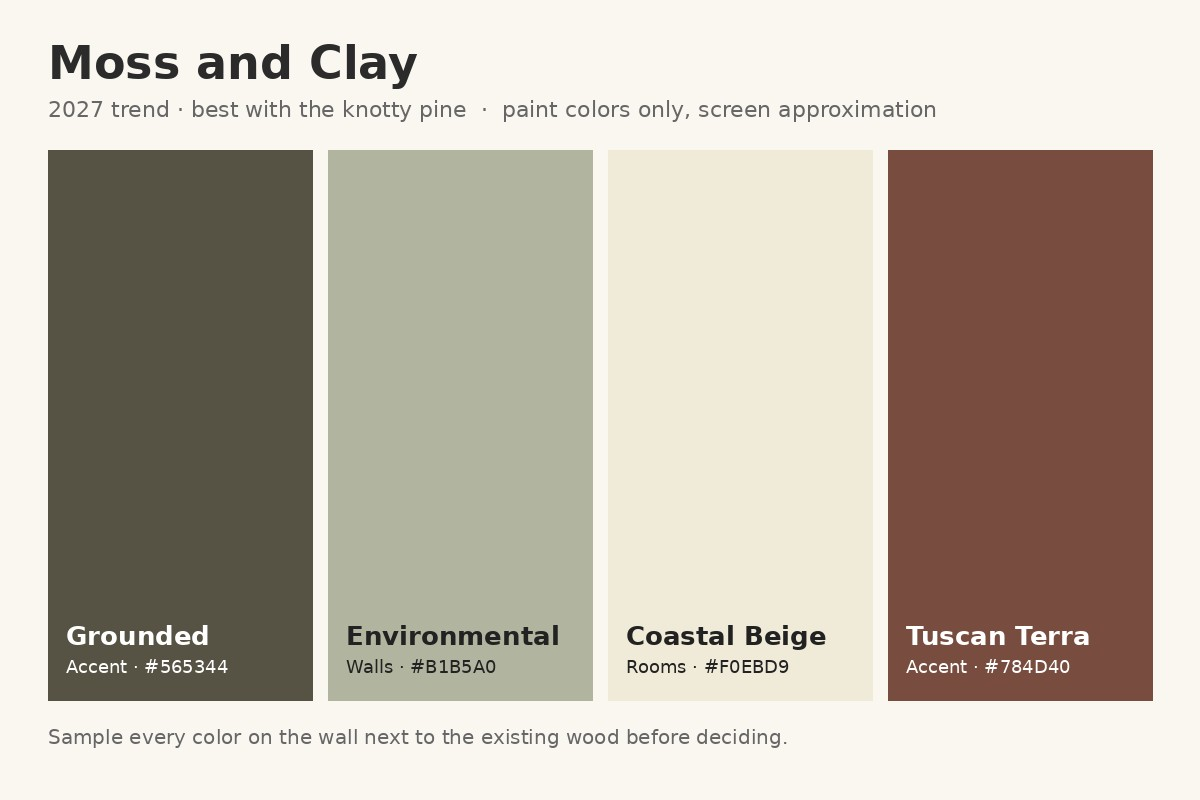
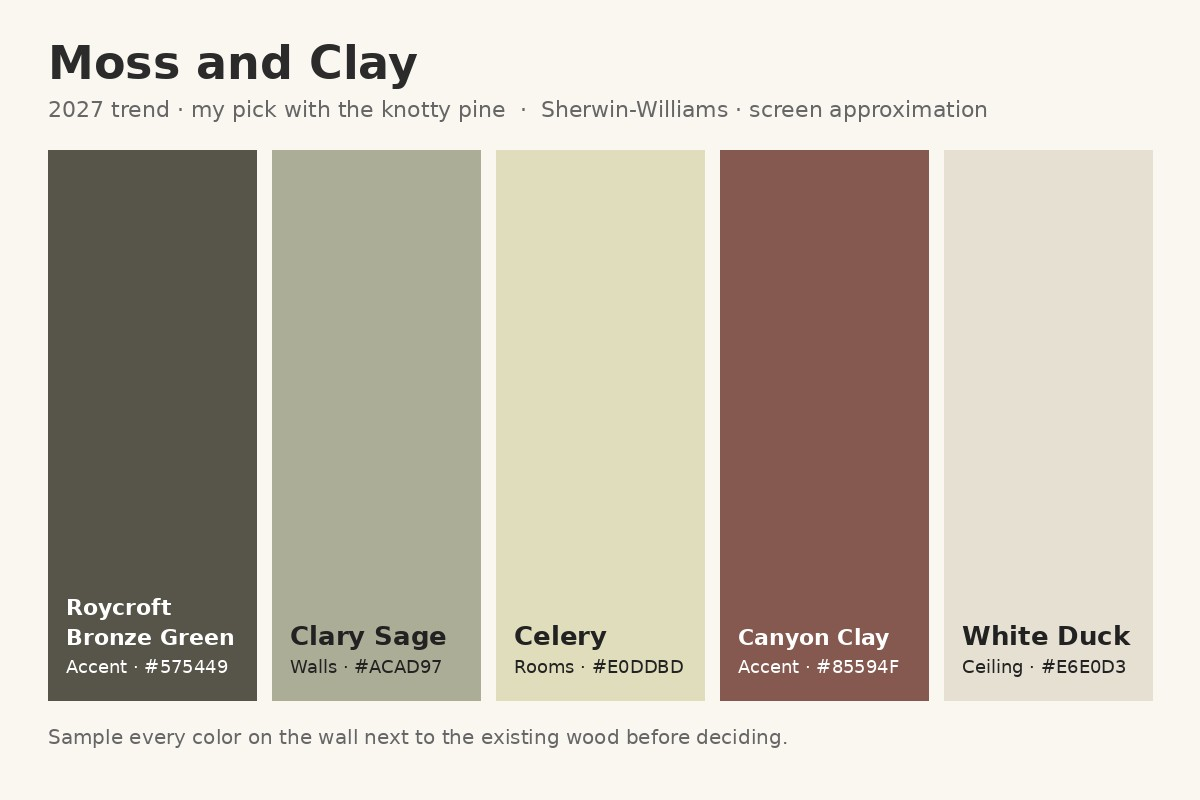
Trend palettes switched to Sherwin-Williams colors with room-by-room plans

diff --git a/js/trend-2027-looks.js b/js/trend-2027-looks.js
@@ -7,9 +7,9 @@
     "id": "tr-moss-clay",
     "group": "house",
     "name": "Moss and Clay",
-    "kicker": "2027 trend \u00b7 best with the knotty pine",
-    "blurb": "Behr's 2027 olive in the office, a lighter sage on the living and kitchen walls, warm white bedrooms and ceilings, terracotta-clay accents, medium-brown oak.",
-    "note": "Color-only look from the November 18, 2026 trend research. Grounded is very dark (LRV about 9 to 11), so it goes in the office and at most one living-room accent wall, not every wall next to the pine. Environmental, from the same Behr 2027 palette, carries the main living walls. No renders or product set yet; those get built from real sourced products only if this look is chosen. Unpainted wood stays unpainted.",
+    "kicker": "2027 trend \u00b7 my pick with the knotty pine",
+    "blurb": "Sherwin-Williams version: Roycroft Bronze Green office, Clary Sage living and kitchen, Celery (SW's 2027 Color of the Year) bedrooms, Canyon Clay accents, White Duck ceilings.",
+    "note": "All Sherwin-Williams, November 18, 2026. Room by room: living room and kitchen walls Clary Sage SW 6178; office walls Roycroft Bronze Green SW 2846 (very dark, LRV about 9, so office plus at most one living accent wall); primary bedroom and 3rd bedroom Celery SW 6421; laundry, hall and bath walls Clary Sage; painted ceilings and painted trim White Duck SW 7010; clay accent Canyon Clay SW 6054 on an interior door, pottery or textiles. Knotty pine, real wood trim and the laundry's wood ceiling stay unpainted. Color only: no renders or product set yet.",
     "hero": "looks/tr-moss-clay-board.jpg",
     "prefix": "tr-moss-clay",
     "board": "looks/tr-moss-clay-board.jpg",
@@ -18,32 +18,39 @@
     "captions": {},
     "swatches": [
       {
-        "id": "grounded",
-        "name": "Grounded",
-        "hex": "#565344",
+        "id": "roycroft-bronze-green",
+        "name": "Roycroft Bronze Green",
+        "hex": "#575449",
         "column": "Accent",
-        "use": "Office walls and at most one living accent wall. Behr Grounded T27-01, 2027 Color of the Year; hex from behr.com, checked Nov 18, 2026."
+        "use": "Office walls, plus at most one living-room accent wall. Sherwin-Williams SW 2846, from SW's 2027 Colormix palette; hex from Sherwin-Williams data."
       },
       {
-        "id": "environmental",
-        "name": "Environmental",
-        "hex": "#B1B5A0",
+        "id": "clary-sage",
+        "name": "Clary Sage",
+        "hex": "#ACAD97",
         "column": "Walls",
-        "use": "Living room and kitchen walls. Behr Environmental PPU11-09, from Behr's 2027 trend palette."
+        "use": "Living room, kitchen, laundry, hall and bath walls. Sherwin-Williams SW 6178; hex from sherwin-williams.com, checked Nov 18, 2026."
       },
       {
-        "id": "coastal-beige",
-        "name": "Coastal Beige",
-        "hex": "#F0EBD9",
+        "id": "celery",
+        "name": "Celery",
+        "hex": "#E0DDBD",
         "column": "Rooms",
-        "use": "Bedrooms and painted ceilings (not the laundry's wood ceiling). Behr Coastal Beige PPU7-13."
+        "use": "Primary bedroom and 3rd bedroom. Sherwin-Williams SW 6421, the 2027 Color of the Year; hex from sherwin-williams.com, checked Nov 18, 2026."
       },
       {
-        "id": "tuscan-terra",
-        "name": "Tuscan Terra",
-        "hex": "#784D40",
+        "id": "canyon-clay",
+        "name": "Canyon Clay",
+        "hex": "#85594F",
         "column": "Accent",
-        "use": "Clay accent for a door, pottery or textiles. Behr Tuscan Terra T27-02."
+        "use": "One interior door, pottery or textiles. Sherwin-Williams SW 6054."
+      },
+      {
+        "id": "white-duck",
+        "name": "White Duck",
+        "hex": "#E6E0D3",
+        "column": "Ceiling",
+        "use": "Painted ceilings and painted trim only. Sherwin-Williams SW 7010, from SW's 2027 Colormix palette."
       }
     ]
   },
@@ -52,8 +59,8 @@
     "group": "house",
     "name": "Smoky Blue Cottage",
     "kicker": "2027 trend \u00b7 softest",
-    "blurb": "Valspar's 2027 blue-gray on the main walls, warm greige elsewhere, a blush accent, light wood floors.",
-    "note": "Color-only look from the November 18, 2026 trend research. Cottage Door is a mid-tone (LRV 26), so it reads calm rather than dark. The blush is an accent, not a whole room. Blue next to orange-toned knotty pine is a strong contrast; sample it beside the pine first. No renders or product set yet.",
+    "blurb": "Sherwin-Williams version: Blustery Sky blue-gray living and office, Agreeable Gray everywhere else, a Romance blush accent, light wood floors.",
+    "note": "All Sherwin-Williams, November 18, 2026. Room by room: living room and office walls Blustery Sky SW 9140 (mid-tone, LRV about 22); kitchen, primary bedroom, 3rd bedroom, laundry, hall and bath walls Agreeable Gray SW 7029; one blush accent wall (3rd bedroom or the dining wall) Romance SW 6323; painted ceilings and painted trim Alabaster SW 7008. Blue beside orange-toned knotty pine is a strong contrast, so sample it next to the pine first. Knotty pine and real wood stay unpainted. Color only: no renders or product set yet.",
     "hero": "looks/tr-smoky-blue-board.jpg",
     "prefix": "tr-smoky-blue",
     "board": "looks/tr-smoky-blue-board.jpg",
@@ -62,25 +69,32 @@
     "captions": {},
     "swatches": [
       {
-        "id": "cottage-door",
-        "name": "Cottage Door",
-        "hex": "#7A8F97",
+        "id": "blustery-sky",
+        "name": "Blustery Sky",
+        "hex": "#6F848C",
         "column": "Walls",
-        "use": "Living room and office walls. Valspar Cottage Door 8004-38E, 2027 Color of the Year; hex from valspar.com, checked Nov 18, 2026."
+        "use": "Living room and office walls. Sherwin-Williams SW 9140; hex from sherwin-williams.com, checked Nov 18, 2026."
       },
       {
-        "id": "moon-shot",
-        "name": "Moon Shot",
-        "hex": "#D4CFC7",
+        "id": "agreeable-gray",
+        "name": "Agreeable Gray",
+        "hex": "#D1CBC1",
         "column": "Rooms",
-        "use": "Bedrooms, halls and ceilings. Valspar Moon Shot 8005-2B."
+        "use": "Kitchen, bedrooms, laundry, hall and bath. Sherwin-Williams SW 7029."
       },
       {
-        "id": "apricot-blush",
-        "name": "Apricot Blush",
-        "hex": "#F0D4CA",
+        "id": "romance",
+        "name": "Romance",
+        "hex": "#EBCFC3",
         "column": "Accent",
-        "use": "One accent wall or the front door. Valspar Apricot Blush 8003-8A."
+        "use": "One accent wall only. Sherwin-Williams SW 6323."
+      },
+      {
+        "id": "alabaster",
+        "name": "Alabaster",
+        "hex": "#EDEAE0",
+        "column": "Ceiling",
+        "use": "Painted ceilings and painted trim only. Sherwin-Williams SW 7008."
       }
     ]
   },
@@ -89,8 +103,8 @@
     "group": "house",
     "name": "Rewild Cabin",
     "kicker": "2027 trend \u00b7 warmest",
-    "blurb": "Warm khaki walls, barn red or bitter chocolate on doors and built-ins, white ceilings, rich brown floors.",
-    "note": "Color-only look from the November 18, 2026 trend research. The dark browns go on doors, built-ins or one accent wall only, never on walls touching the knotty pine, where they would muddy together. No renders or product set yet.",
+    "blurb": "Universal Khaki walls, Red Barn doors, Bitter Chocolate built-ins, Alabaster ceilings, rich brown floors. All from Sherwin-Williams' 2027 Colormix palette except Alabaster.",
+    "note": "All Sherwin-Williams, November 18, 2026. Room by room: living room, kitchen, office, hall and laundry walls Universal Khaki SW 6150; primary bedroom, 3rd bedroom and bath walls Alabaster SW 7008 to keep them lighter; interior doors Red Barn SW 7591; built-ins or one accent wall away from the pine Bitter Chocolate SW 6013; painted ceilings and painted trim Alabaster. The dark browns never go on walls touching the knotty pine. Color only: no renders or product set yet.",
     "hero": "looks/tr-rewild-board.jpg",
     "prefix": "tr-rewild",
     "board": "looks/tr-rewild-board.jpg",
@@ -103,28 +117,28 @@
         "name": "Universal Khaki",
         "hex": "#B8A992",
         "column": "Walls",
-        "use": "Main walls. Sherwin-Williams Universal Khaki SW 6150; hex from Sherwin-Williams data, checked Nov 18, 2026."
+        "use": "Living room, kitchen, office, hall and laundry. Sherwin-Williams SW 6150; hex from Sherwin-Williams data, checked Nov 18, 2026."
       },
       {
         "id": "red-barn",
         "name": "Red Barn",
         "hex": "#7C453D",
         "column": "Accent",
-        "use": "Interior doors or one accent wall away from the pine. Sherwin-Williams Red Barn SW 7591."
+        "use": "Interior doors. Sherwin-Williams SW 7591."
       },
       {
         "id": "bitter-chocolate",
         "name": "Bitter Chocolate",
         "hex": "#4D3C3C",
         "column": "Accent",
-        "use": "Built-ins or a door. Sherwin-Williams Bitter Chocolate SW 6013."
+        "use": "Built-ins or one accent wall away from the pine. Sherwin-Williams SW 6013."
       },
       {
         "id": "alabaster",
         "name": "Alabaster",
         "hex": "#EDEAE0",
-        "column": "Ceiling",
-        "use": "Painted ceilings and painted trim only. Sherwin-Williams Alabaster SW 7008."
+        "column": "Rooms",
+        "use": "Bedrooms, bath, painted ceilings and painted trim. Sherwin-Williams SW 7008."
       }
     ]
   }

diff --git a/js/looks-registry.js b/js/looks-registry.js
@@ -27,9 +27,9 @@
     { id: "ext-cottage", status: "active", scope: "exterior", accents: ["Evergreen Fog siding", "Alabaster trim", "Rookwood Dark Green door", "Vintage brass", "Catmint and hydrangea"] },
     { id: "ext-classic", status: "active", scope: "exterior", accents: ["Alabaster siding and trim", "Tricorn Black door", "Matte black lantern", "Boxwood row"] },
     { id: "ext-charcoal-cedar", status: "active", scope: "exterior", accents: ["Peppercorn charcoal siding and trim", "Rough-sawn cedar under the windows", "Existing wood door", "Black barn light", "Brass numbers"] },
-    /* 2027 trend palettes (color only), November 18, 2026 */
-    { id: "tr-moss-clay", status: "active", accents: ["Grounded olive office", "Environmental sage walls", "Coastal Beige bedrooms", "Tuscan Terra clay accents"] },
-    { id: "tr-smoky-blue", status: "active", accents: ["Cottage Door blue-gray walls", "Moon Shot greige", "Apricot Blush accent", "Light wood floors"] },
+    /* 2027 trend palettes (color only, Sherwin-Williams), November 18, 2026 */
+    { id: "tr-moss-clay", status: "active", accents: ["Clary Sage walls", "Roycroft Bronze Green office", "Celery bedrooms", "Canyon Clay accents", "White Duck ceilings"] },
+    { id: "tr-smoky-blue", status: "active", accents: ["Blustery Sky walls", "Agreeable Gray", "Romance blush accent", "Alabaster ceilings"] },
     { id: "tr-rewild", status: "active", accents: ["Universal Khaki walls", "Red Barn doors", "Bitter Chocolate built-ins", "Alabaster ceilings"] },
     /* Nautical variants, November 11, 2026 */
     { id: "nt-navy", status: "active", accents: ["Navy walls", "Signal-red textiles", "Brass", "Rope", "Stripes"] },
